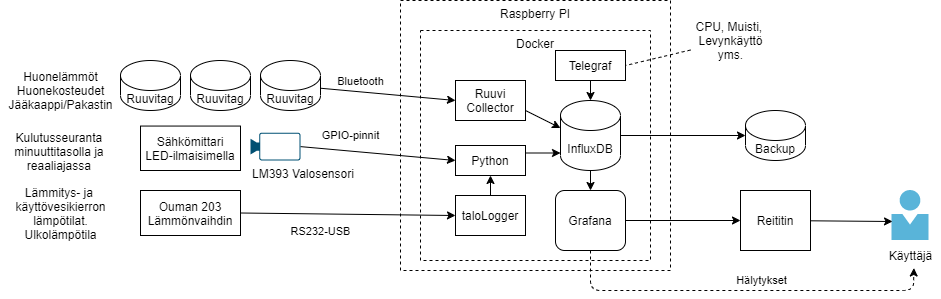
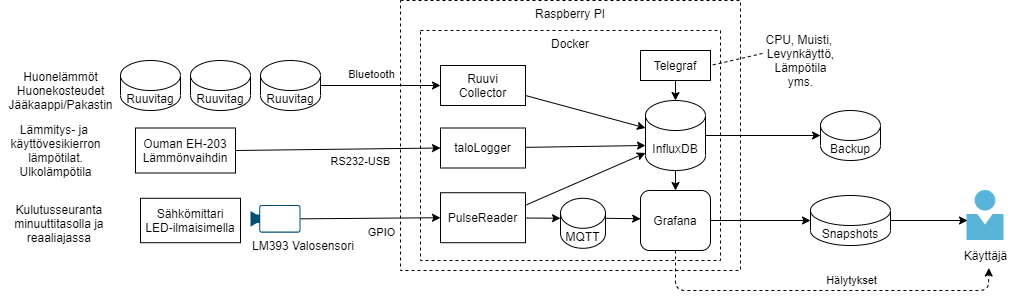
Update diagram and TODO's

diff --git a/README.md b/README.md
@@ -1,17 +1,17 @@
 # Talonvalvontaprojekti
 
-Järjestelmän ytimenä toimii RasberryPI 4 Model B korttitietokone joka asennetaan tekniseen tilaan sopivasti toimilaitteiden ja verkkokaapin läheisyyteen. Raspilla ajetaan työkuormia Docker-konteissa jolloin eri osat pysyvät hyvin erillään toisistaan.
+Järjestelmän ytimenä toimii RasberryPI 4 Model B korttitietokone joka asennetaan tekniseen tilaan sopivasti toimilaitteiden ja verkkokaapin läheisyyteen. Raspilla ajetaan työkuormia Docker-konteissa jolloin eri osat pysyvät hyvin erillään toisistaan. Säilytettävä data tallennetaan InfluxDB-tietokantaan josta se visualisoidaan Grafanalla. Reaaliaikamittaukset (esim. hetkellinen sähkön kulutus) streamataan suoraan Grafanalle MQTT:n yli. 
 
- Grafanan UI julkaistaan reitittimen läpi internettiin DynDNS tai vastaavan avulla --> myös kotiverkosta pääsee kätevästi katsomaan käyriä. Järjestelmä seuraa talon eri osia ja sieltä on mahdollista lähettää myös hälytyksiä tiettyjen raja-arvojen ylittyessä.
+Grafanan kojelaudat julkaistaan tasaisin väliajoin ulkopuoliseen järjestelmään jolloin reitittimen läpi ei tarvitse avata putkea Raspille. Järjestelmä seuraa talon eri osia ja sieltä on mahdollista lähettää myös hälytyksiä tiettyjen raja-arvojen ylittyessä.
 
 ![Overall picture](/diagrams/Talonvalvonta.png)
 
 ## Next steps (Korkean tason TODO't)
 - YLEISET
+  - MQTT-asennus ja Grafana plugari valmiiksi
   - docker-kansion alle README joka selittää mm. data-kansion tarkoituksen
-  - PortForwardin tekeminen reitittimen läpi (vai muu systeemi? tutkitaan voiko grafanan dashboardit uploadata jonnekin näkyville)
-    - Tässä vaiheessa voisi riittää vain [Dashboardin snapshotin publishaaminen](https://grafana.com/docs/grafana/latest/sharing/share-dashboard/#publish-a-snapshot)
-    - Eri juttu sitten jos halutaan jotain laajempaa kotiautomaatiota tai kameroita tarjota
+  - [Dashboardin snapshotin publishaaminen](https://grafana.com/docs/grafana/latest/sharing/share-dashboard/#publish-a-snapshot)
+    - Tämä riittää nyt, eri juttu sitten jos halutaan jotain laajempaa kotiautomaatiota tai kameroita tarjota
   - Tietokannan varmuuskopioinnin valmistelu
   - Network/Docker watchdog käynnistämään uudestaan tarvittaessa ([ohjeet](https://www.meazurem.com/blog/raspberry-pi-with-network-watchdog/))
   - Perustason alerit (esim. CPU Temp)
@@ -21,9 +21,9 @@ Järjestelmän ytimenä toimii RasberryPI 4 Model B korttitietokone joka asennet
   - Retentiopolicyn ja downsamplaaminen suunnittelu, mitä oikeastaan halutaan?
   - Alerttien konffaaminen
 - SÄHKÖMITTAUS
-  - Sähkömittauksen tallennuksen suunnittelu (hetkellinen power live streaminä grafanaan, 15 tai 60min kulutuslukemat influxdb:hen, konfiguraatiofilestä luku)
+  - Sähkömittauksen tallennuksen suunnittelu (hetkellinen power live streaminä grafanaan MQTT yli)
   - Ratkaisun kontitus ja käyttöönotto
-  - Dashboardi tunti- tai minuuttitasoan kulutuksen seurantaan sekä reaaliaikakulutus ylös
+  - Dashboardi 15-minuutin sloteissa kulutuksen seurantaan kulutuksen seurantaan sekä reaaliaikakulutus ylös
   - Retentiopolicyn ja downsamplaaminen suunnittelu, mitä oikeastaan halutaan?
   - Alerttien konffaaminen
 - LÄMMÖNVAIHDIN
